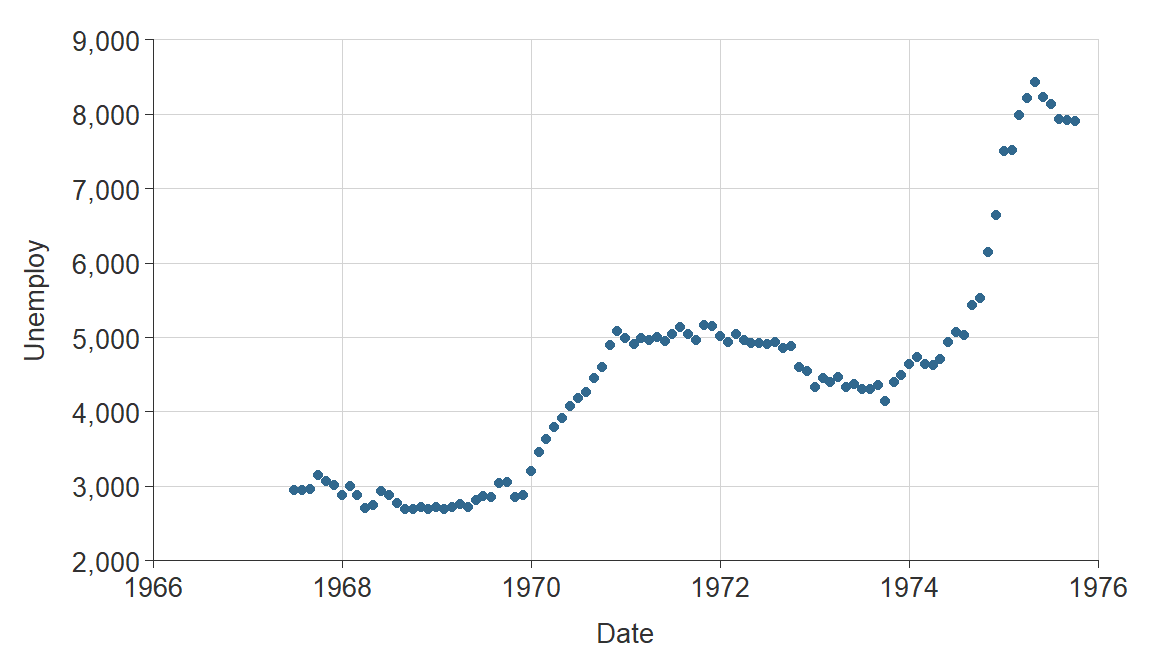
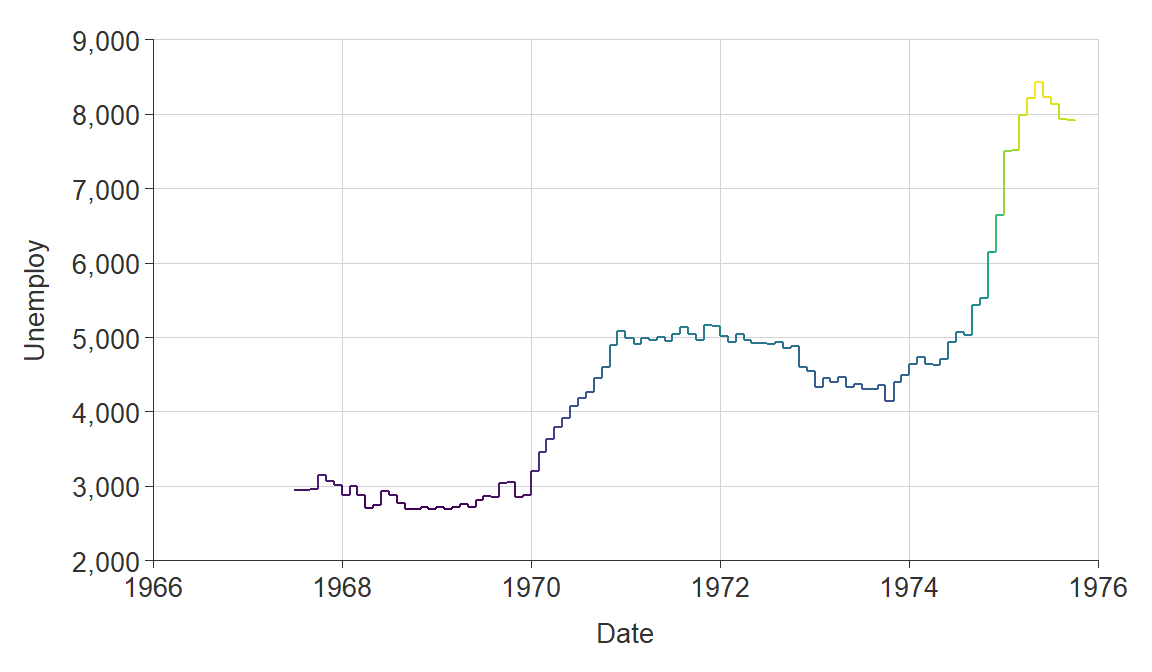
Update

diff --git a/content/post/2022-05-31-ggblanket-demonstrating-some-common-scale-adjustments/index.html b/content/post/2022-05-31-ggblanket-demonstrating-some-common-scale-adjustments/index.html
@@ -98,10 +98,12 @@ economics %&gt;%
           size = 1,
           y_zero = TRUE)</code></pre>
 <p><img src="{{< blogdown/postref >}}index_files/figure-html/unnamed-chunk-13-1.png" width="576" /></p>
-<p>Convert to a point graph</p>
+<p>Convert to a step graph. And colour by the y variable. Note no legend is provided, as it is the values can be read off the y scale.</p>
 <pre class="r"><code>economics %&gt;% 
   slice_head(n = 100) %&gt;% 
-  gg_point(date, unemploy)</code></pre>
+  gg_step(x = date, 
+          y = unemploy, 
+          col = unemploy)</code></pre>
 <p><img src="{{< blogdown/postref >}}index_files/figure-html/unnamed-chunk-14-1.png" width="576" /></p>
 <p>Convert to a ribbon to show uncertainty</p>
 <pre class="r"><code>economics %&gt;% 
